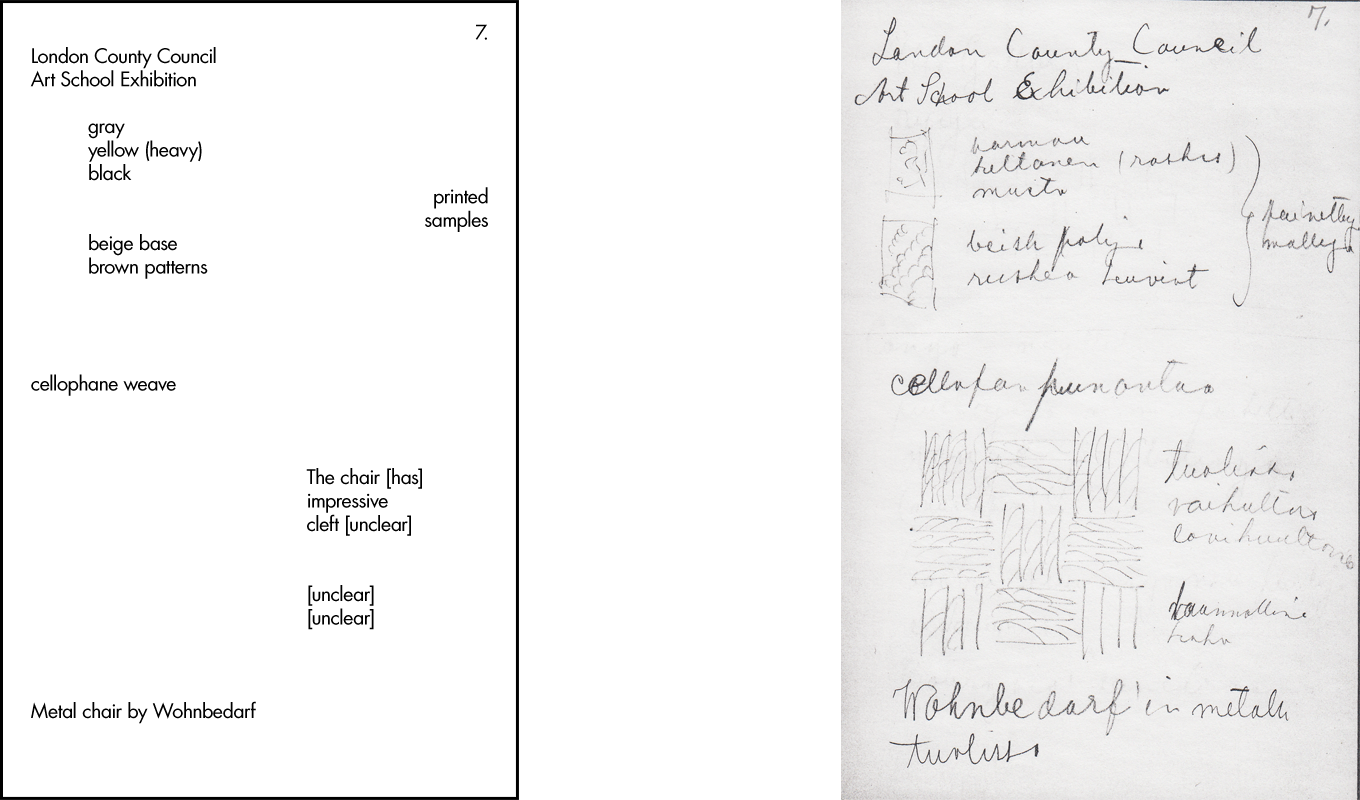
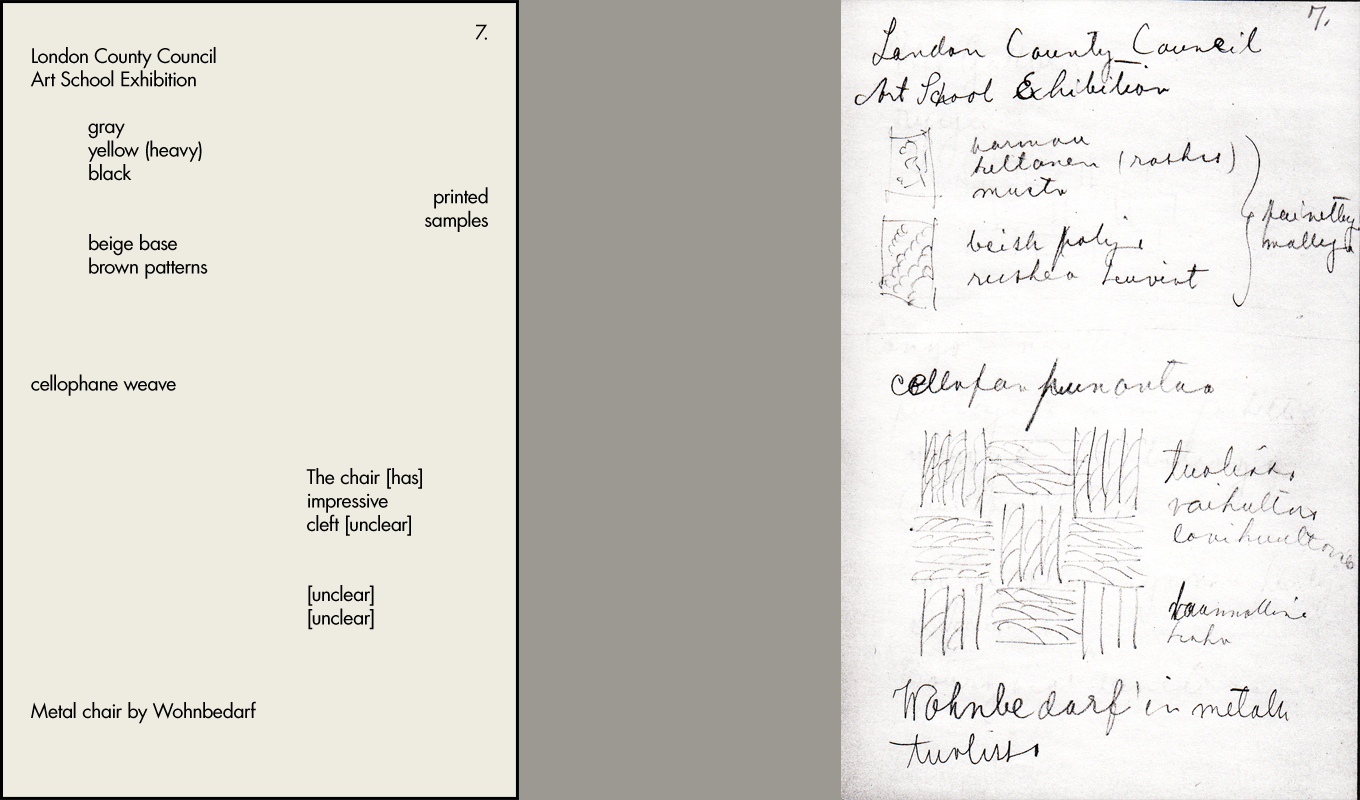
more AMA edits

diff --git a/css/style.css b/css/style.css
@@ -24,6 +24,12 @@ img {
     text-align: center; }
   #container.AMA .next, #container.AMA .prev {
     top: 0; }
+  #container.AMA .overlay_container {
+    right: 0;
+    left: 7.5%;
+    background-color: #eeebe0; }
+  #container.AMA .close {
+    background-color: #eeebe0; }
 
 .gallery {
   overflow: hidden;
@@ -107,14 +113,15 @@ img {
             height: auto;
             width: 100%;
             position: static;
-            overflow: scroll;
+            /* overflow: scroll; */
             text-align: left; }
           .gallery .imageGallery li.single_image .overlay .overlay_container img {
-            max-height: 300px;
+            max-height: 460px;
             max-width: 100%;
             width: auto;
             height: auto;
-            position: relative; }
+            position: relative;
+            margin: 0 auto; }
           .gallery .imageGallery li.single_image .overlay .overlay_container .tombstone {
             width: 100%;
             margin: 2% 0 0;

diff --git a/AMA_sketchbook.html b/AMA_sketchbook.html
@@ -7,7 +7,7 @@
 		<link href='css/style.css' rel='stylesheet' type='text/css'>
 		<link rel="stylesheet" href="https://ajax.googleapis.com/ajax/libs/jqueryui/1.11.4/themes/smoothness/jquery-ui.css">
 	</head>
-	<body>
+	<body style="background-color: #9b9992;">
 		<div id="container" class="AMA">
 			<div class="gallery">
 				<div class="theDots">
@@ -29,7 +29,7 @@
 					</ul>
 					<br clear="all">
 				</div>
-				<div class="intro_screen visible">
+				<div class="intro_screen visible" style="background-color: #eeebe0">
 					<div class="intro_padding">
 						<div class="text-content">
 							<h2>Aino Marsio Aalto&rsquo;s Travel Journal</h2>

diff --git a/style.scss b/style.scss
@@ -29,6 +29,14 @@ img {
 		.next, .prev {
 			top: 0;
 		}
+		.overlay_container {
+			right:0;
+			left: 7.5%;
+			background-color: #eeebe0;
+		}
+		.close {
+			background-color: #eeebe0;
+		}
 	}
 }
 .gallery {
@@ -128,15 +136,16 @@ img {
 						height: auto;
 						width: 100%;
 						position: static;
-						overflow: scroll;
+						/* overflow: scroll; */
 						text-align: left;
 					}
 					img {
-						max-height: 300px;
+						max-height: 460px;
 						max-width: 100%;
 						width: auto;
 						height: auto;
 						position: relative;
+						margin: 0 auto;
 					}
 					.tombstone {
 						width: 100%;
